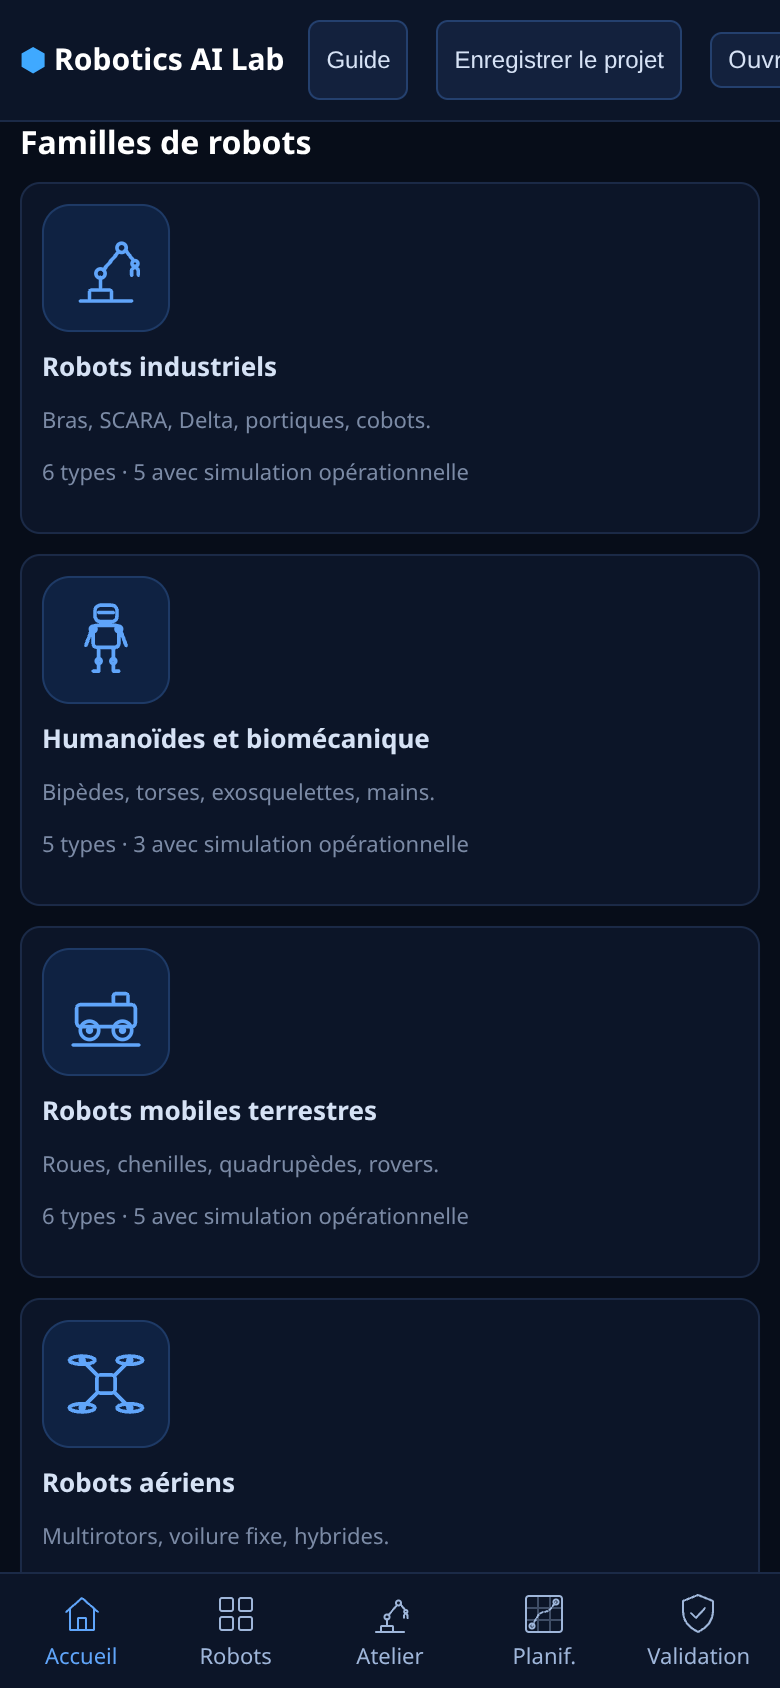
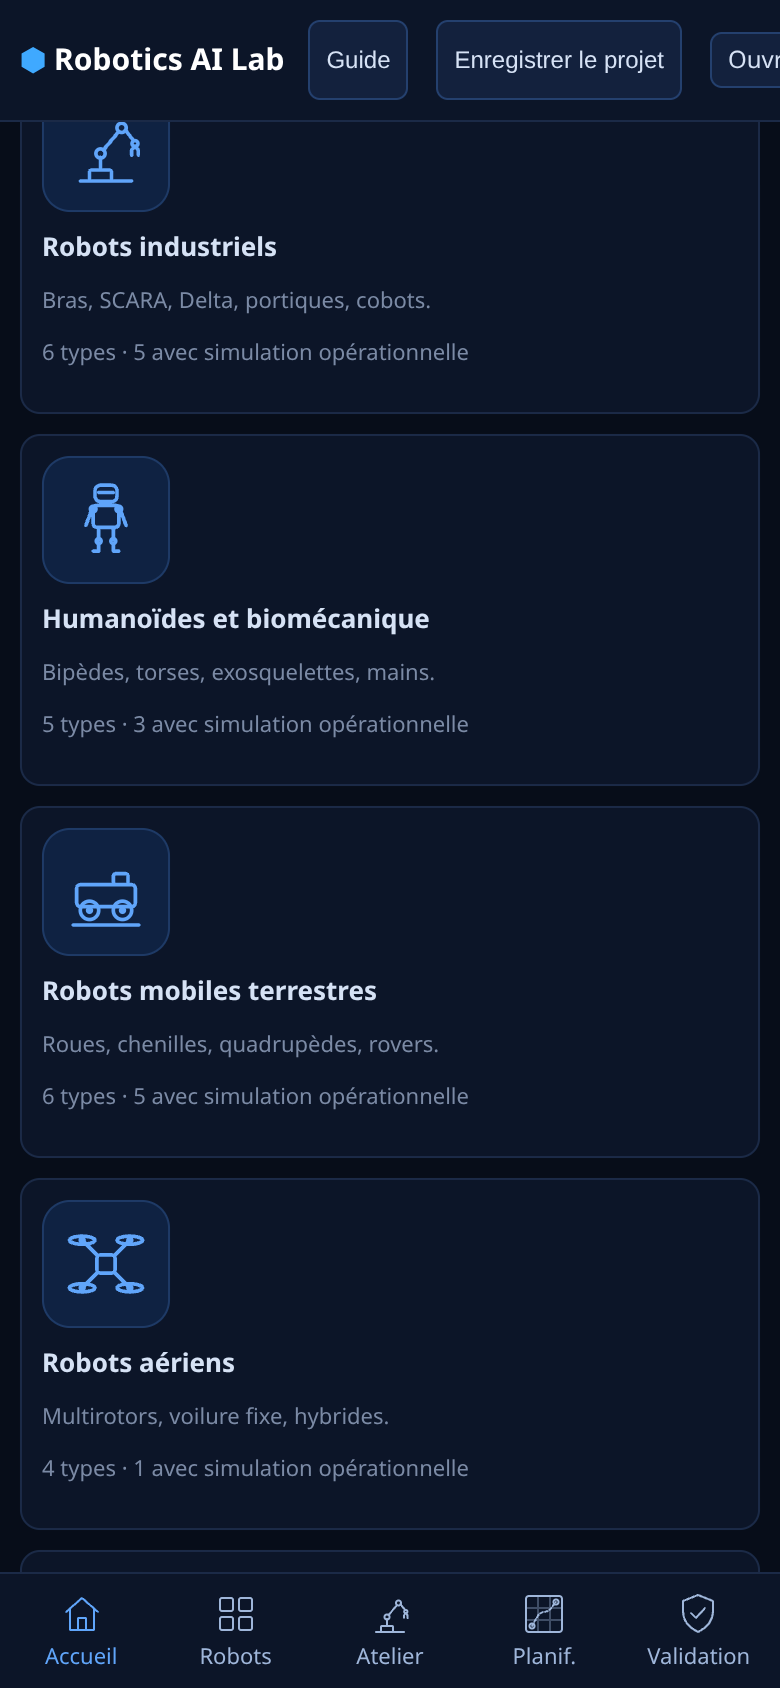
Illustrations réalistes WebP des robots (cartes, bibliothèque, fiches) avec repli SVG ; cache SW v7

diff --git a/src/ui/platform.ts b/src/ui/platform.ts
@@ -18,7 +18,7 @@ function mountViewer(el: HTMLElement, shape: string) { viewer = new Viewer(el); 
 import { loadHist, pushHist, histFromResult, download } from './history';
 import { store, moduleValues, applyProject } from './store';
 import { photoPanel, photoGate } from './photo';
-import { icon } from './icons';
+import { icon, robotImg, FAMILY_IMAGE } from './icons';
 import { makeProject, validateProject } from '../core/project';
 import { assist, type AssistantAnswer } from '../core/assistant';
 import { globalMarkdown, globalHTML, buildGlobal } from '../core/globalReport';
@@ -30,7 +30,7 @@ export function renderHome() {
   <section class="hero"><h1>Concevoir, simuler et analyser des robots — honnêtement.</h1><p>Décrivez votre besoin en français : l'analyseur à règles le transforme en paramètres structurés, liste les données manquantes et oriente vers les modules réellement implémentés.</p>
   <div class="nlbox"><input id="nl" placeholder="Ex. : Configure un robot à roues pour inspecter un entrepôt"><button id="nlgo" class="primary-s">Analyser et exécuter</button></div><label class="note"><input type="checkbox" id="nldemo" style="width:auto"> Accepter les valeurs de démonstration étiquetées pour les champs qui en ont (sinon toutes les données obligatoires doivent être fournies)</label>
   <div class="examples">${['Configure un robot à roues pour inspecter un entrepôt', 'Simule un bras qui déplace un objet de deux kilogrammes', 'Compare deux configurations de drone'].map((e) => `<button class="ex">${e}</button>`).join('')}</div><div id="nlout"></div></section>
-  <h2>Familles de robots</h2><div class="grid">${FAMILIES.map((f) => { const types = ROBOT_TYPES.filter((r) => r.family === f.id); const sim = types.filter(hasWorkspace).length; return `<a class="card fam" href="#/bibliotheque?f=${f.id}"><div class="ico">${icon(f.icon, 44, f.name)}</div><b>${f.name}</b><p class="note">${f.description}</p><p class="note">${types.length} types · ${sim} avec simulation opérationnelle</p></a>`; }).join('')}</div>
+  <h2>Familles de robots</h2><div class="grid">${FAMILIES.map((f) => { const types = ROBOT_TYPES.filter((r) => r.family === f.id); const sim = types.filter(hasWorkspace).length; return `<a class="card fam" href="#/bibliotheque?f=${f.id}">${robotImg(FAMILY_IMAGE[f.id] ?? f.icon, f.icon)}<div class="ico">${icon(f.icon, 28, f.name)}</div><b>${f.name}</b><p class="note">${f.description}</p><p class="note">${types.length} types · ${sim} avec simulation opérationnelle</p></a>`; }).join('')}</div>
   <h2>Historique des simulations <small class="note">(stocké localement dans le navigateur)</small></h2><div><b>Rapport global de session :</b> <button id="gHtml">HTML</button><button id="gMd">Markdown</button><button id="gJson">JSON</button> <span class="note">Agrège toutes les exécutions, classées calculé / estimé / à valider.</span></div>
   ${hist.length ? `<table class="tbl"><tr><th>Date</th><th>Robot</th><th>Module</th><th>Résultat</th></tr>${hist.slice(0, 10).map((h) => `<tr><td>${new Date(h.date).toLocaleString('fr-FR')}</td><td>${esc(typeById(h.type)?.name ?? h.type)}</td><td>${esc(h.moduleTitle ?? ALL_MODULES[h.module]?.title ?? h.module)}</td><td>${h.ok ? '✔' : '✖'} ${esc(h.summary)}</td></tr>`).join('')}</table><button id="clrh">Effacer l'historique</button>` : '<p class="note">Aucune simulation enregistrée.</p>'}</div>`;
   let userVals: Record<string, number> = {};
@@ -70,7 +70,7 @@ export function renderLibrary(params: URLSearchParams) {
   const draw = () => {
     const q = (document.getElementById('q') as HTMLInputElement).value, f = (document.getElementById('fam') as HTMLSelectElement).value, s = (document.getElementById('st') as HTMLSelectElement).value as Status;
     const list = searchTypes(q, f || undefined, s || undefined);
-    document.getElementById('cards')!.innerHTML = FAMILIES.filter((fa) => list.some((r) => r.family === fa.id)).map((fa) => `<h2 class="famh">${icon(fa.icon, 28)} ${fa.name}</h2><div class="grid">${list.filter((r) => r.family === fa.id).map((r) => `<a class="card rcard" href="#/robot/${r.id}"><img alt="" src="${thumbnail(r.shape)}"><b class="tname">${icon(r.id, 24)} ${esc(r.name)}</b><p class="note">${esc(r.description)}</p><div>${Object.entries(r.capabilities).map(([k, v]) => `<div class="caprow"><span>${CAPL[k]}</span>${badge(v)}</div>`).join('')}</div></a>`).join('')}</div>`).join('') || '<p class="note">Aucun résultat.</p>';
+    document.getElementById('cards')!.innerHTML = FAMILIES.filter((fa) => list.some((r) => r.family === fa.id)).map((fa) => `<h2 class="famh">${icon(fa.icon, 28)} ${fa.name}</h2><div class="grid">${list.filter((r) => r.family === fa.id).map((r) => `<a class="card rcard" href="#/robot/${r.id}">${robotImg(r.id, r.id)}<b class="tname">${icon(r.id, 24)} ${esc(r.name)}</b><p class="note">${esc(r.description)}</p><div>${Object.entries(r.capabilities).map(([k, v]) => `<div class="caprow"><span>${CAPL[k]}</span>${badge(v)}</div>`).join('')}</div></a>`).join('')}</div>`).join('') || '<p class="note">Aucun résultat.</p>';
   };
   ['q', 'fam', 'st'].forEach((id) => document.getElementById(id)!.addEventListener('input', draw)); draw();
 }
@@ -78,7 +78,7 @@ export function renderLibrary(params: URLSearchParams) {
 export function renderDetail(id: string) {
   const r = typeById(id); if (!r) { root.innerHTML = topbar('lib') + '<div class="page">Type inconnu.</div>'; return; }
   const fam = FAMILIES.find((f) => f.id === r.family)!;
-  root.innerHTML = topbar('lib') + `<div class="page detail"><p><a href="#/bibliotheque">← Bibliothèque</a> / ${fam.name}</p><h1 class="famh">${icon(r.id, 36, r.name)} ${esc(r.name)}</h1><p>${esc(r.description)}</p>
+  root.innerHTML = topbar('lib') + `<div class="page detail"><p><a href="#/bibliotheque">← Bibliothèque</a> / ${fam.name}</p><h1 class="famh">${icon(r.id, 36, r.name)} ${esc(r.name)}</h1>${robotImg(r.id, r.id, 'hero')}<p>${esc(r.description)}</p>
   <div class="split"><div class="card"><div id="dview" class="view3d"></div><p class="tag">Modèle générique non validé — illustration procédurale sans données mécaniques.</p></div>
   <div class="card"><h3>Statut des capacités</h3>${Object.entries(r.capabilities).map(([k, v]) => `<div class="caprow"><span>${CAPL[k]}</span>${badge(v)}</div>`).join('')}
   <h3>Composants</h3><p>${r.components.join(', ') || '<span class="note">à définir</span>'}</p><h3>Articulations / axes</h3><p>${esc(r.joints)}</p>

diff --git a/src/ui/icons.ts b/src/ui/icons.ts
@@ -57,3 +57,9 @@ export function icon(id: string, size = 40, title?: string): string {
   const body = ICONS[id] ?? ICONS.modular;
   return `<svg class="ico-svg" viewBox="0 0 48 48" width="${size}" height="${size}" fill="none" stroke="currentColor" stroke-width="2" stroke-linecap="round" stroke-linejoin="round" ${title ? `role="img" aria-label="${title}"><title>${title}</title>` : 'aria-hidden="true">'}${body}</svg>`;
 }
+export const FAMILY_IMAGE: Record<string, string> = { industrial: 'arm', humanoid: 'biped', mobile: 'wheeled', aerial: 'multirotor', aquatic: 'rov', special: 'modular', companion: 'companion-desk' };
+export const IMG_CAPTION = 'Illustration générée — non contractuelle';
+/** Illustration WebP (chargement différé) avec l'icône SVG en secours si l'image ne charge pas. */
+export function robotImg(imgId: string, iconId: string, cls = ''): string {
+  return `<figure class="rimg ${cls}"><img src="./img/robots/${imgId}.webp" loading="lazy" decoding="async" width="512" height="512" alt="${IMG_CAPTION}" title="${IMG_CAPTION}" onerror="this.parentNode.classList.add('fail')"><span class="fb">${icon(iconId, 64)}</span><figcaption>${IMG_CAPTION}</figcaption></figure>`;
+}

diff --git a/src/ui/platform.css b/src/ui/platform.css
@@ -46,3 +46,9 @@ input[type=range]{height:32px}button{min-height:40px}input[type=radio],input[typ
 .ico-svg{color:#60a5fa;flex:0 0 auto;vertical-align:middle}.card.fam .ico{display:flex;align-items:center;justify-content:center;width:64px;height:64px;border-radius:14px;background:#0f2242;border:1px solid #1e3a66;margin-bottom:8px}
 .famh{display:flex;align-items:center;gap:10px}.tname{display:flex;align-items:center;gap:8px}.tname .ico-svg{color:#7fb2ff}
 #tabbar a .ico-svg{color:currentColor}
+.rimg{margin:0 0 8px;position:relative;border-radius:10px;overflow:hidden;background:#0b1730;aspect-ratio:1/1}
+.rimg img{width:100%;height:100%;object-fit:cover;display:block}
+.rimg .fb{display:none;position:absolute;inset:0;align-items:center;justify-content:center}.rimg.fail img{display:none}.rimg.fail .fb{display:flex}
+.rimg figcaption{position:absolute;left:0;right:0;bottom:0;font-size:10px;color:#a9bbd8;background:linear-gradient(transparent,#0b1220d0);padding:10px 6px 3px;text-align:right}
+.rimg.hero{max-width:360px;aspect-ratio:1/1}
+.card.fam .ico{width:40px;height:40px;margin:-36px 0 6px 8px;position:relative;z-index:1}

diff --git a/public/sw.js b/public/sw.js
@@ -1,5 +1,5 @@
 // Service worker minimal : réseau d'abord, cache en secours (consultation hors ligne des fichiers déjà chargés).
-const C = 'ral-v6';
+const C = 'ral-v7-img';
 self.addEventListener('install', (e) => { self.skipWaiting(); e.waitUntil(caches.open(C).then((c) => c.addAll(['./', './index.html', './manifest.webmanifest']))); });
 self.addEventListener('activate', (e) => e.waitUntil(caches.keys().then((ks) => Promise.all(ks.filter((k) => k !== C).map((k) => caches.delete(k)))).then(() => self.clients.claim())));
 self.addEventListener('fetch', (e) => { if (e.request.method !== 'GET' || new URL(e.request.url).origin !== location.origin) return;
